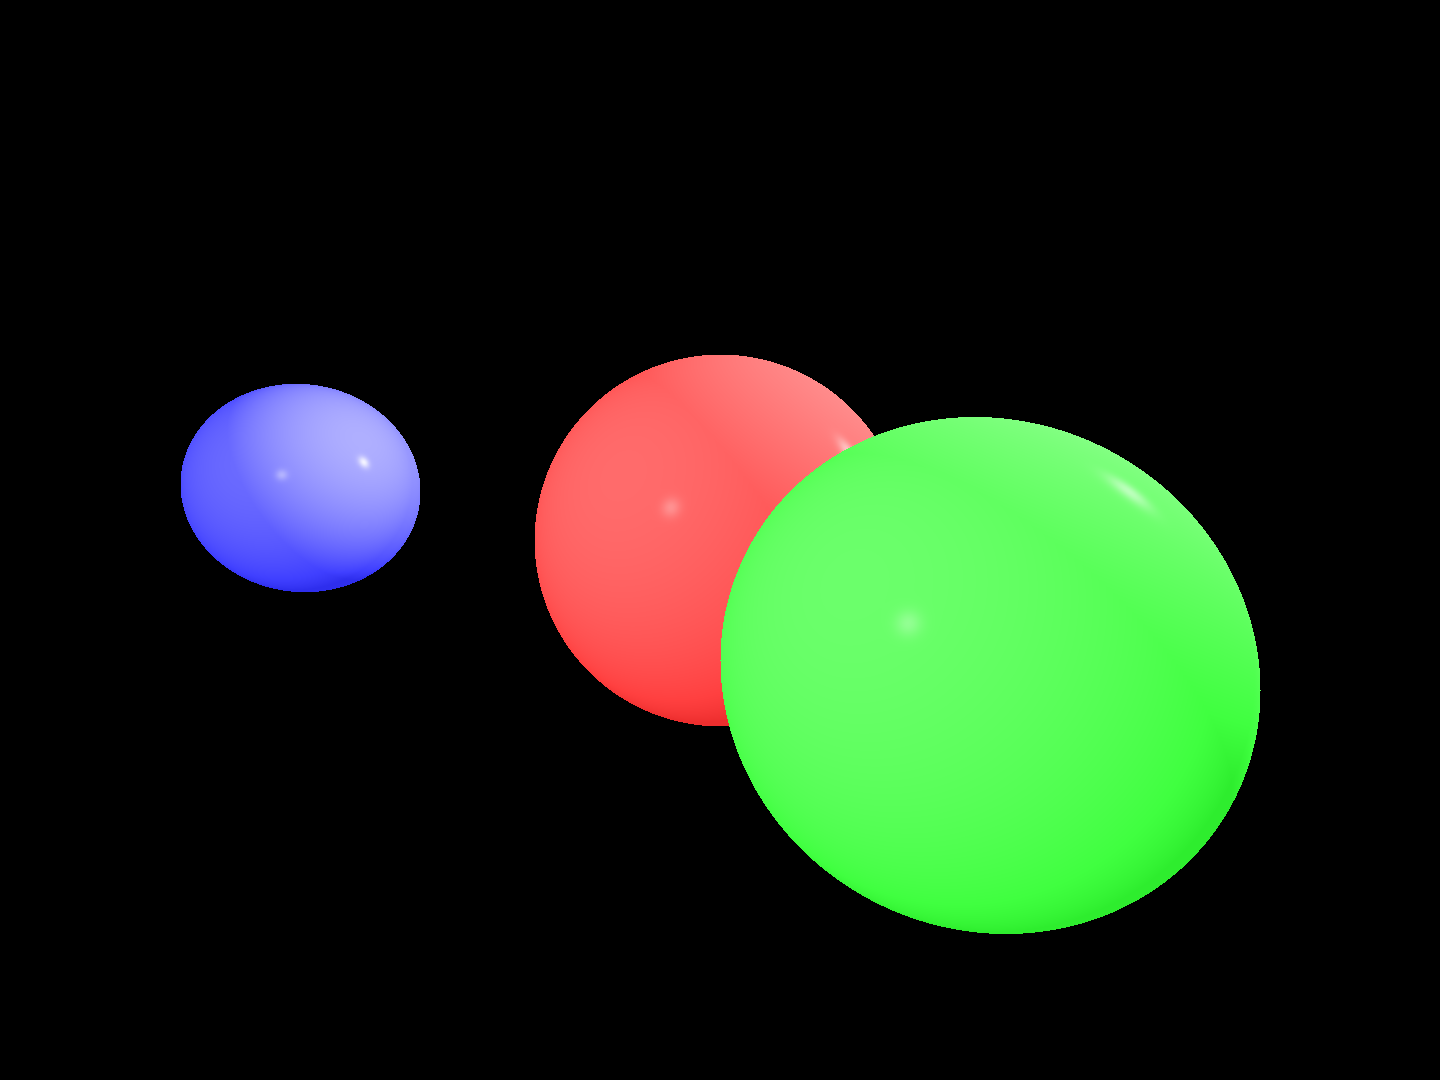
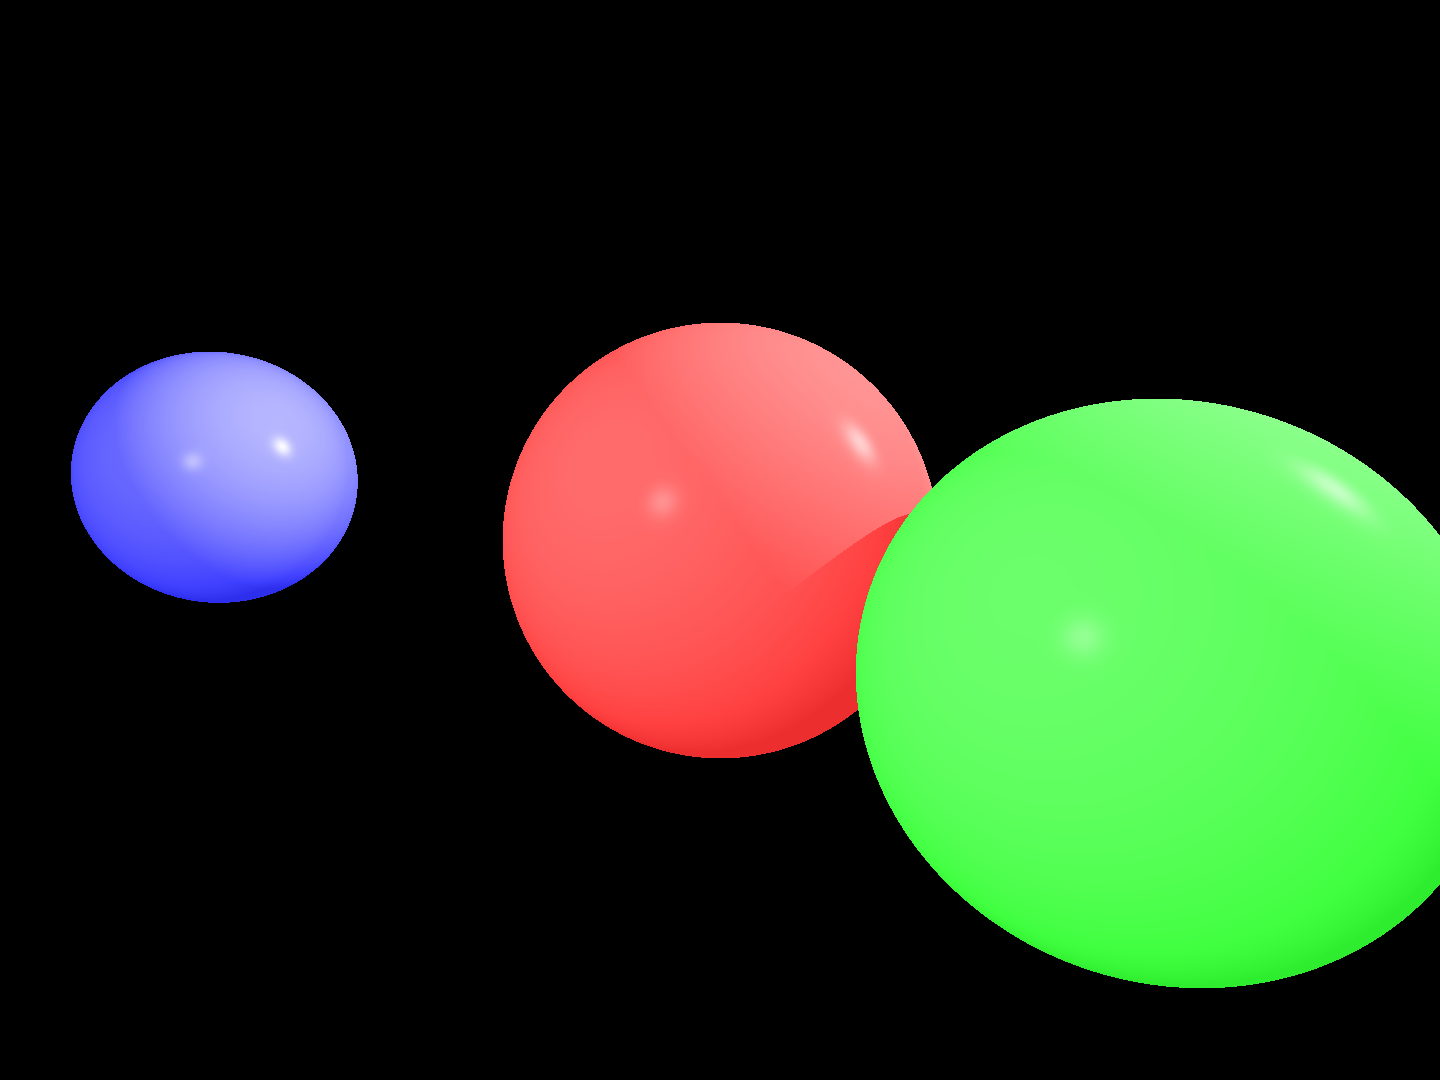
added simple java fx

Changed region(s): [[0.3438, 0.275, 1.0, 0.9167], [0.0312, 0.3056, 0.3125, 0.5806], [0.7188, 0.55, 0.7812, 0.6111]]

diff --git a/code/renderer/Calculate.java b/code/renderer/Calculate.java
@@ -155,20 +155,34 @@ public class Calculate {
     }
 
     private static Color  calculateDiffuseTerm(Sphere sphere, Screen screen, Vector unitNormal, Vector pointOfIntersection){
-        Color totalDiffuseAndSpecularComponent = new Color(0, 0, 0);
+        Color totalDiffuseAndSpecularComponent = new Color(0);
         for(Light light : screen.lights){
-            Vector lightVector = Vector.vectorSubtration(light.location, pointOfIntersection);
-            Vector untiLightVector = Vector.scalarMult(lightVector, 1/Vector.magnitude(lightVector));
-            float dotProduct = Vector.dotProduct(unitNormal, untiLightVector);
-            if(dotProduct>=0){
-                Color diffuseComponent = new Color(
-                    light.diffuseIntensity.getR()*sphere.material.diffuseConstant*dotProduct,
-                    light.diffuseIntensity.getG()*sphere.material.diffuseConstant*dotProduct,
-                    light.diffuseIntensity.getB()*sphere.material.diffuseConstant*dotProduct
-                );
-                totalDiffuseAndSpecularComponent = addColors(diffuseComponent, totalDiffuseAndSpecularComponent);
-                Color specularComponent = calculateSpecularTerm(sphere, screen, unitNormal, pointOfIntersection, untiLightVector, light);
-                totalDiffuseAndSpecularComponent = addColors(addColors(specularComponent, totalDiffuseAndSpecularComponent),specularComponent);
+            boolean inShadow = false;
+            Ray shadowRay = shadowRay(light.location, pointOfIntersection);
+            for (Sphere otherShpere:screen.spheres){
+                if(sphere!=otherShpere){
+
+                    float tValue = intersectionSphere(otherShpere, shadowRay);
+                    if (tValue>0&&tValue<1){
+                        inShadow = true;
+                    }
+
+                }
+            }
+            if(!inShadow){
+                Vector lightVector = Vector.vectorSubtration(light.location, pointOfIntersection);
+                Vector untiLightVector = Vector.scalarMult(lightVector, 1/Vector.magnitude(lightVector));
+                float dotProduct = Vector.dotProduct(unitNormal, untiLightVector);
+                if(dotProduct>=0){
+                    Color diffuseComponent = new Color(
+                        light.diffuseIntensity.getR()*sphere.material.diffuseConstant*dotProduct,
+                        light.diffuseIntensity.getG()*sphere.material.diffuseConstant*dotProduct,
+                        light.diffuseIntensity.getB()*sphere.material.diffuseConstant*dotProduct
+                    );
+                    totalDiffuseAndSpecularComponent = addColors(diffuseComponent, totalDiffuseAndSpecularComponent);
+                    Color specularComponent = calculateSpecularTerm(sphere, screen, unitNormal, pointOfIntersection, untiLightVector, light);
+                    totalDiffuseAndSpecularComponent = addColors(addColors(specularComponent, totalDiffuseAndSpecularComponent),specularComponent);
+                }
             }
         }
         return totalDiffuseAndSpecularComponent;
@@ -208,6 +222,10 @@ public class Calculate {
             Math.max(0, Math.min(c.getG(), 1)),
             Math.max(0, Math.min(c.getB(), 1))
         );
+    }
+
+    public static Ray shadowRay(Vector light, Vector pointOfIntersection){
+        return new Ray(Vector.vectorSubtration(light, pointOfIntersection),pointOfIntersection);
     }
     
     

diff --git a/code/renderer/ImageGUI.java b/code/renderer/ImageGUI.java
@@ -1,0 +1,67 @@
+package code.renderer;
+
+
+
+import javafx.event.ActionEvent;
+
+import javafx.scene.control.Button;
+
+
+import javafx.application.*;
+import javafx.scene.Scene;
+
+import javafx.scene.image.ImageView;
+import javafx.scene.layout.VBox;
+import javafx.stage.Stage;
+
+public class ImageGUI extends Application {
+
+    private Screen screenSetUp(){
+        Screen screen = new Screen();
+        screen.addSphere(new Sphere(1f,new Vector(1.5f, -.5f, 2),new Color(0, .75f, 0)));
+        screen.addSphere(new Sphere(1f,new Vector(0, 0, 3),new Color(.75f,0,0 )));
+        screen.addSphere(new Sphere(1f,new Vector(-4, .5f, 6), new Color(0, 0, .75f)));
+        
+        Light fillLight = new Light(new Vector(-3, 2, -3), new Color(.4f),new Color(.4f));
+        screen.lights.add(fillLight);
+
+        Light keyLight = new Light(new Vector(10, 7, 3), new Color(.7f),new Color(.7f));
+        screen.lights.add(keyLight);
+
+        screen.ambientLight = new Color(.3f);
+        return screen;
+    }
+
+    @SuppressWarnings("unused")
+    @Override
+    public void start(Stage stage) throws Exception {
+        Screen screen = screenSetUp();
+        Button rerender = new Button();
+        rerender.setOnAction((ActionEvent event)->{
+            screen.shapeTest();
+        });
+        rerender.setText("Re-Render");
+        rerender.setMinWidth(screen.image.width);
+
+
+
+        screen.shapeTest();
+
+        ImageView imageView = screen.image.toImageView();
+
+        
+        VBox vBox = new VBox();
+        vBox.getChildren().addAll(imageView,rerender);
+
+        
+        
+        Scene scene = new Scene(vBox);
+        stage.setTitle("Image test");
+        stage.setScene(scene);
+        stage.show();
+    }
+
+    public static void main(String[] args) {
+        launch(args);
+    }
+}

diff --git a/code/renderer/Screen.java b/code/renderer/Screen.java
@@ -16,7 +16,7 @@ public class Screen {
     public Screen(){
         image = new Image(1440,1080);
         imagePlane = new ImagePlane();
-        camera = new Vector(0, 0, -1);
+        camera = new Vector(0, 0, -1.25f);
         spheres = new ArrayList<>();
         lights = new ArrayList<>();
     }
@@ -71,14 +71,14 @@ public class Screen {
 
     public static void main(String[] args) throws IOException{
         Screen screen = new Screen();
-        screen.addSphere(new Sphere(1f,new Vector(1f, -.5f, 2),new Color(0, .75f, 0)));
+        screen.addSphere(new Sphere(1f,new Vector(1.5f, -.5f, 2),new Color(0, .75f, 0)));
         screen.addSphere(new Sphere(1f,new Vector(0, 0, 3),new Color(.75f,0,0 )));
         screen.addSphere(new Sphere(1f,new Vector(-4, .5f, 6), new Color(0, 0, .75f)));
         
         Light fillLight = new Light(new Vector(-3, 2, -3), new Color(.4f),new Color(.4f));
         screen.lights.add(fillLight);
 
-        Light keyLight = new Light(new Vector(10, 7, 5), new Color(.7f),new Color(.7f));
+        Light keyLight = new Light(new Vector(10, 7, 3), new Color(.7f),new Color(.7f));
         screen.lights.add(keyLight);
 
         screen.ambientLight = new Color(.3f);

diff --git a/code/renderer/Image.java b/code/renderer/Image.java
@@ -1,6 +1,11 @@
 package code.renderer;
 
 import javax.imageio.ImageIO;
+
+import javafx.embed.swing.SwingFXUtils;
+import javafx.scene.image.ImageView;
+import javafx.scene.image.WritableImage;
+
 import java.awt.*;
 import java.awt.Color;
 import java.awt.image.BufferedImage;
@@ -43,6 +48,13 @@ public class Image implements Closeable{
     public void save(String filename) throws IOException {
         ImageIO.write(image, "PNG", new File(filename));
     }
+
+
+    public ImageView toImageView() {
+        WritableImage fxImage = SwingFXUtils.toFXImage(image, null);
+        return new ImageView(fxImage);
+    }
+    
 
     @Override
     public void close() throws IOException {

diff --git a/code/renderer/Material.java b/code/renderer/Material.java
@@ -14,6 +14,6 @@ public class Material {
     }
 
     public Material(){
-        this(new Color(.6f), .6f,.2f, shininess = 200f);
+        this(new Color(.6f), .6f,.2f, shininess = 100f);
     }
 }
